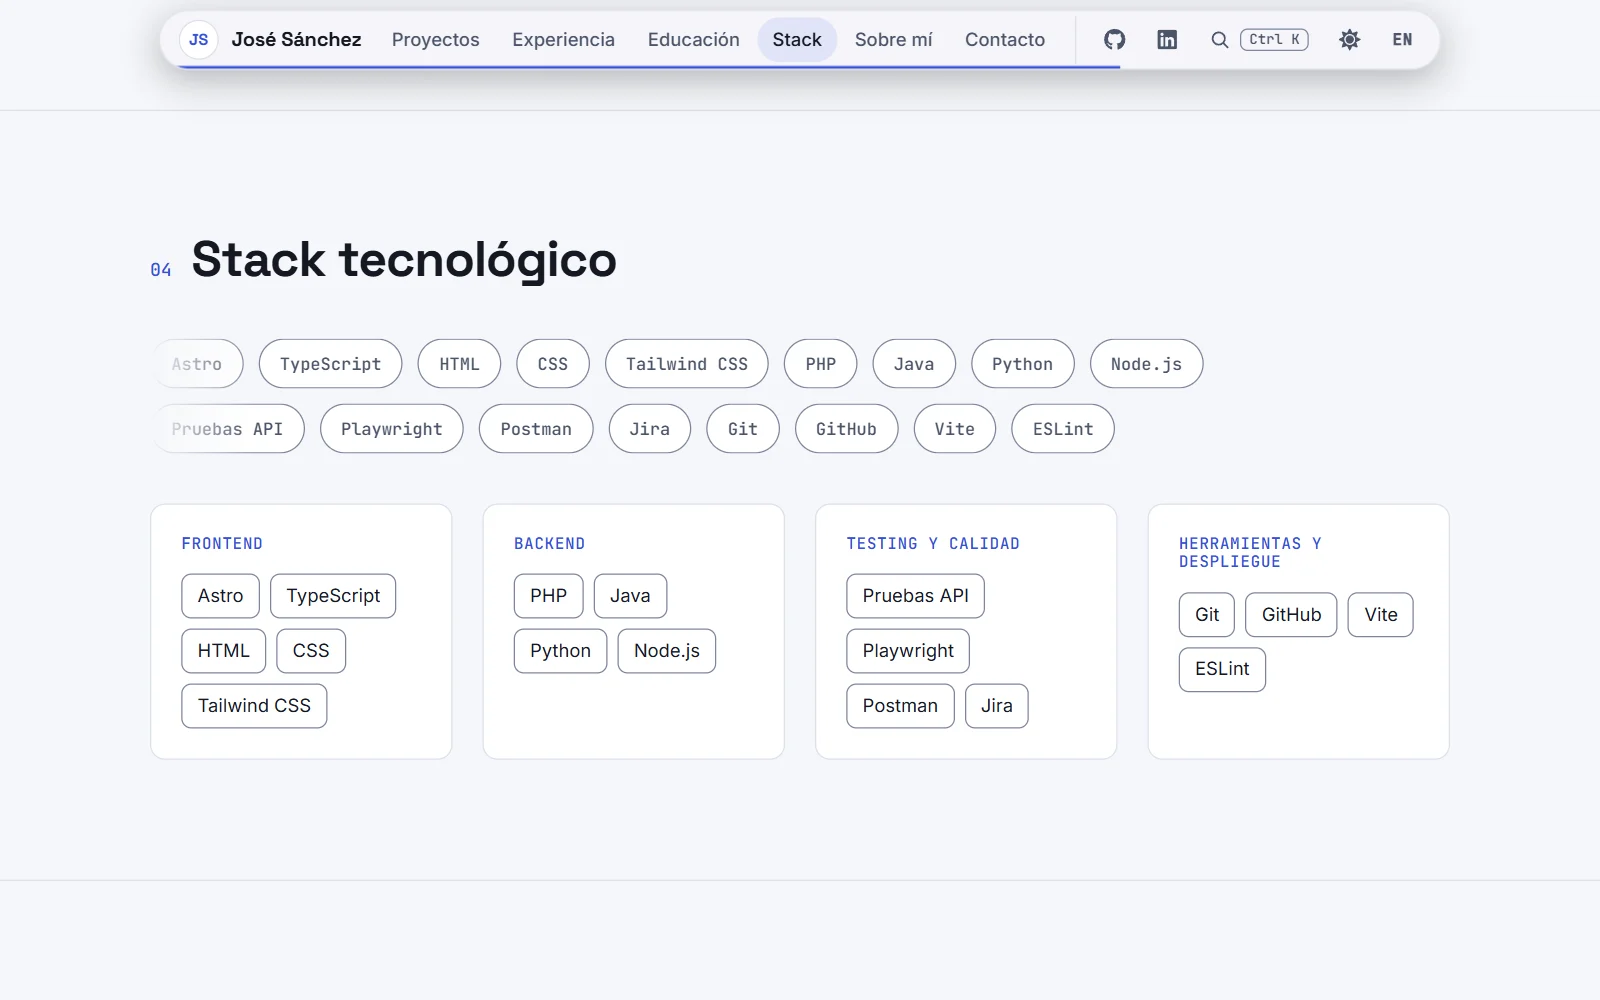
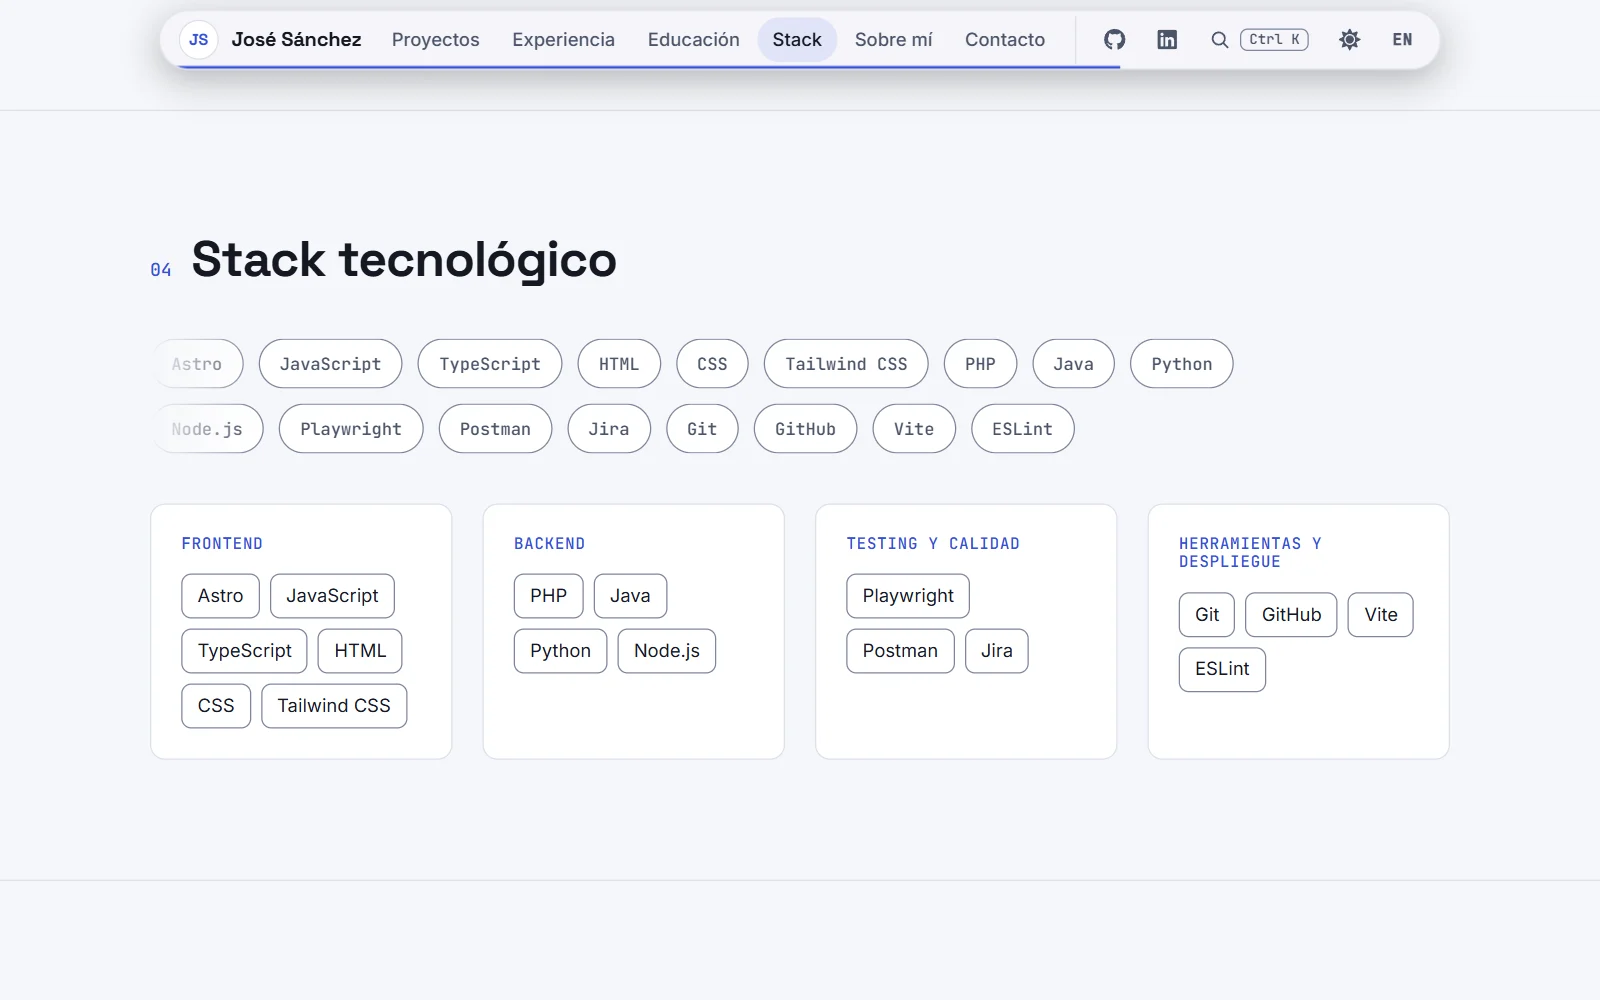
Update

Changed region(s): [[0.1562, 0.341, 0.7812, 0.465], [0.125, 0.589, 0.25, 0.713], [0.5312, 0.589, 0.6562, 0.713]]

diff --git a/src/data/projects.ts b/src/data/projects.ts
@@ -42,12 +42,97 @@ export const projects: Project[] = [
     id: "portfolio",
     title: { es: "Portfolio personal", en: "Personal portfolio" },
     description: {
-      es: "Esta misma web: un portfolio para presentar mi perfil y mis proyectos, con tema claro y oscuro, navegación accesible y diseño responsive.",
-      en: "This very website: a portfolio to showcase my profile and projects, with light and dark themes, accessible navigation and responsive design.",
+      es: "Esta misma web: mi portfolio, generado con Astro como HTML estático. Está en español e inglés, con tema claro y oscuro, navegación accesible, paleta de comandos (Ctrl+K), una consola interactiva y una pantalla de carga con aspecto de terminal.",
+      en: "This very website: my portfolio, generated with Astro as static HTML. It comes in Spanish and English, with light and dark themes, accessible navigation, a command palette (Ctrl+K), an interactive console and a terminal-style loading screen.",
     },
-    tags: ["Astro", "TypeScript", "Tailwind CSS"],
+    tags: ["Astro", "TypeScript", "Tailwind CSS", "Vitest"],
     // TODO: confirma el estado ("done" | "in-progress" | "todo"). Aparece en el comando `proyectos` de la consola.
     status: "in-progress",
-    // TODO: añade aquí la URL del repositorio (code) y de la web publicada (demo) cuando las tengas.
+    // Capturas de esta misma web (public/img/projects). Si el diseño cambia mucho, habrá que volver a hacerlas.
+    images: [
+      {
+        src: "/img/projects/portfolio-inicio.webp",
+        alt: {
+          es: "Inicio de la web en tema oscuro: barra de navegación flotante, el título «Creo soluciones eficientes y experiencias digitales modernas» y la foto de perfil.",
+          en: "Home of the website in dark theme: floating navigation bar, the headline “I build efficient solutions and modern digital experiences” and the profile photo.",
+        },
+      },
+      {
+        src: "/img/projects/portfolio-claro.webp",
+        alt: {
+          es: "Sección Stack en tema claro: dos filas de tecnologías en movimiento y tarjetas por categoría.",
+          en: "Tech stack section in light theme: two moving rows of technologies and a card for each category.",
+        },
+      },
+      {
+        src: "/img/projects/portfolio-paleta.webp",
+        alt: {
+          es: "Paleta de comandos abierta con Ctrl+K: lista de secciones y acciones para buscar y ejecutar.",
+          en: "Command palette opened with Ctrl+K: a list of sections and actions to search and run.",
+        },
+      },
+      {
+        src: "/img/projects/portfolio-consola.webp",
+        alt: {
+          es: "Consola interactiva con los comandos «whoami» y «run tests», que muestra cinco pruebas superadas.",
+          en: "Interactive console running the “whoami” and “run tests” commands, showing five passing tests.",
+        },
+      },
+      {
+        src: "/img/projects/portfolio-movil.webp",
+        alt: {
+          es: "La web en móvil: la pantalla de inicio y el menú a pantalla completa.",
+          en: "The website on mobile: the home screen and the full-screen menu.",
+        },
+      },
+    ],
+    code: "https://github.com/josesaanchez7/Portfolio-jsanchez",
+    demo: "https://jose-sanchez.vercel.app",
+    caseStudy: {
+      problem: {
+        es: "Presentar mi perfil y mis proyectos en una web propia que cargue rápido, sea accesible, esté en español e inglés y se vea bien en cualquier dispositivo.",
+        en: "Showcase my profile and projects on a website of my own that loads fast, is accessible, comes in Spanish and English and looks good on any device.",
+      },
+      solution: {
+        es: "Una web estática hecha con Astro: el HTML se genera al construir, hay una página por idioma (/ y /en/) y el JavaScript solo se carga donde hace falta: menú, tema, idioma, paleta de comandos, consola y carruseles de imágenes.",
+        en: "A static website built with Astro: the HTML is generated at build time, there is one page per language (/ and /en/) and JavaScript only loads where it is needed: menu, theme, language, command palette, console and image carousels.",
+      },
+      decisions: [
+        {
+          es: "Pasé la web de React a Astro: el contenido es estático, así que no hacía falta un framework de interfaz en el navegador. Cada componente lleva su propio script, sin librerías.",
+          en: "I moved the site from React to Astro: the content is static, so a UI framework in the browser was not needed. Each component carries its own script, with no libraries.",
+        },
+        {
+          es: "Los textos y el contenido están tipados en español e inglés: cada texto tiene sus dos versiones y el compilador avisa si falta alguna.",
+          en: "Text and content are typed in Spanish and English: every text has both versions and the compiler warns if one is missing.",
+        },
+        {
+          es: "Tailwind CSS v4 con variables de diseño para el tema claro y oscuro.",
+          en: "Tailwind CSS v4 with design variables for the light and dark themes.",
+        },
+        {
+          es: "Accesibilidad desde el principio: diálogos nativos, foco gestionado, etiquetas ARIA, contraste revisado y respeto a «reducir movimiento».",
+          en: "Accessibility from the start: native dialogs, managed focus, ARIA labels, checked contrast and respect for “reduce motion”.",
+        },
+        {
+          es: "Pruebas con Vitest: la lógica (idioma, SEO, comandos de la consola, orden de la experiencia…) y el HTML de los componentes se comprueban automáticamente.",
+          en: "Tests with Vitest: the logic (language, SEO, console commands, experience ordering…) and the components' HTML are checked automatically.",
+        },
+      ],
+      results: [
+        {
+          es: "Lighthouse, medido en local sobre el build: 100 en accesibilidad, buenas prácticas y SEO, y entre 97 y 100 en rendimiento, sin desplazamiento de diseño (CLS 0).",
+          en: "Lighthouse, measured locally on the build: 100 for accessibility, best practices and SEO, and between 97 and 100 for performance, with no layout shift (CLS 0).",
+        },
+        {
+          es: "Una web bilingüe con una URL por idioma y su propia página 404.",
+          en: "A bilingual website with one URL per language and its own 404 page.",
+        },
+        {
+          es: "Más de 250 pruebas automáticas que se ejecutan en segundos.",
+          en: "More than 250 automated tests that run in seconds.",
+        },
+      ],
+    },
   },
 ];

diff --git a/src/data/content.test.ts b/src/data/content.test.ts
@@ -1,4 +1,7 @@
+import { existsSync } from "node:fs";
+import { join } from "node:path";
 import { describe, expect, it } from "vitest";
+import { galleryOf } from "../lib/gallery";
 import { LANGUAGES, type LocalizedText } from "../lib/language";
 import { aboutFacts, profile } from "./profile";
 import { byMostRecent, education, experience, workExperience } from "./experience";
@@ -36,6 +39,42 @@ describe("contenido estático", () => {
       expect(names.length).toBeGreaterThan(0);
       expect(new Set(names).size).toBe(names.length);
     }
+  });
+});
+
+describe("proyectos", () => {
+  const images = projects.flatMap((project) => galleryOf(project).map((image) => ({ project, image })));
+
+  it("cada imagen existe en public/ y es un webp", () => {
+    expect(images.length).toBeGreaterThan(0);
+    for (const { project, image } of images) {
+      expect(image.src, project.id).toMatch(/^\/img\/projects\/.+\.webp$/);
+      expect(existsSync(join(process.cwd(), "public", image.src)), `${project.id}: falta ${image.src}`).toBe(true);
+    }
+  });
+
+  it("los proyectos con varias imágenes las describen todas, en los dos idiomas", () => {
+    for (const project of projects) {
+      const gallery = galleryOf(project);
+      if (gallery.length < 2) continue;
+      for (const image of gallery) {
+        for (const language of LANGUAGES) {
+          expect(image.alt?.[language]?.trim().length ?? 0, `${project.id} ${image.src} (${language})`).toBeGreaterThan(10);
+        }
+      }
+    }
+  });
+
+  it("no se repite ninguna imagen dentro de un mismo proyecto", () => {
+    for (const project of projects) {
+      const sources = galleryOf(project).map((image) => image.src);
+      expect(new Set(sources).size, project.id).toBe(sources.length);
+    }
+  });
+
+  it("los estados son válidos y el primer proyecto es el destacado", () => {
+    for (const project of projects) expect(["done", "in-progress", "todo"]).toContain(project.status);
+    expect(projects[0]?.featured ?? true).toBe(true);
   });
 });
 

diff --git a/src/data/stack.ts b/src/data/stack.ts
@@ -9,7 +9,7 @@ const tech = (name: string): LocalizedText => ({ es: name, en: name });
 const allCategories: StackCategory[] = [
   {
     label: { es: "Frontend", en: "Frontend" },
-    items: [tech("Astro"), tech("TypeScript"), tech("HTML"), tech("CSS"), tech("Tailwind CSS")],
+    items: [tech("Astro"), tech("JavaScript"), tech("TypeScript"), tech("HTML"), tech("CSS"), tech("Tailwind CSS")],
   },
   {
     label: { es: "Backend", en: "Backend" },
@@ -18,7 +18,7 @@ const allCategories: StackCategory[] = [
   { label: { es: "Bases de datos", en: "Databases" }, items: [] },
   {
     label: { es: "Testing y calidad", en: "Testing and quality" },
-    items: [{ es: "Pruebas API", en: "API testing" }, tech("Playwright"), tech("Postman"), tech("Jira")],
+    items: [tech("Playwright"), tech("Postman"), tech("Jira")],
   },
   {
     label: { es: "Herramientas y despliegue", en: "Tools and deployment" },
